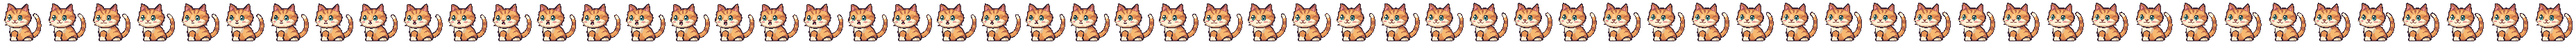
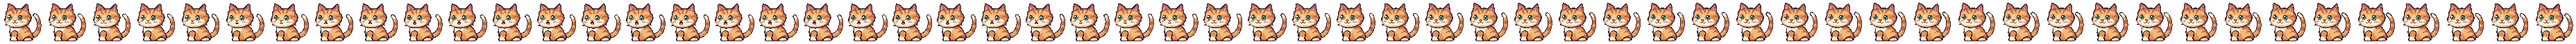
Animate affectionate and curious poses for the Calm tabby

diff --git a/client/calm-mode.jsx b/client/calm-mode.jsx
@@ -3,7 +3,7 @@ import {createPortal} from 'react-dom';
 import {catPerch,createCatSound,readCalmMode,saveCalmMode} from '/js/calm-cat.js';
 
 // Each strip is rendered at 24 frames per second on a 64px pixel grid.
-const framesByPose={idle:96,stretching:48,walk:72,laying:30,sleeping1:96,waking:42,meow:58};
+const framesByPose={idle:144,stretching:48,walk:72,laying:36,sleeping1:144,waking:48,meow:58,nuzzle:72,grooming:96,curious:60};
 const routine=[['idle',8000],['stretching',2000],['walk',3000],['idle',8000],['laying',1250],['sleeping1',16000],['waking',1750]];
 function Paw(){return <svg viewBox="0 0 24 24" aria-hidden="true"><ellipse cx="5" cy="9" rx="2" ry="2.8" transform="rotate(-25 5 9)"/><ellipse cx="10" cy="5.5" rx="2" ry="2.8"/><ellipse cx="16" cy="6" rx="2" ry="2.8" transform="rotate(15 16 6)"/><ellipse cx="20" cy="11" rx="1.8" ry="2.5" transform="rotate(30 20 11)"/><path d="M6.5 17c0-2 3-5.5 5.5-5.5s5.5 3.5 5.5 5.5c0 3-3 2-5.5 2s-5.5 1-5.5-2Z"/></svg>;}
 function Speaker({on}){return <svg viewBox="0 0 24 24" aria-hidden="true"><path d="M11 4 6 8H3v8h3l5 4Z"/>{on?<path d="M15 8a6 6 0 0 1 0 8m3-11a10 10 0 0 1 0 14"/>:<path d="m16 9 5 6m0-6-5 6"/>}</svg>;}

diff --git a/scripts/art/render-calm-cat.py b/scripts/art/render-calm-cat.py
@@ -27,7 +27,8 @@ PALETTE = {
     "pink": "eb9292", "ear": "aa545d", "eye": "26343d", "iris": "66b9af",
     "irisshade": "3a827d", "glint": "f5fff0",
 }
-CLIPS = {"idle": 96, "stretching": 48, "walk": 72, "laying": 30, "sleeping1": 96, "waking": 42, "meow": 58}
+CLIPS = {"idle": 144, "stretching": 48, "walk": 72, "laying": 36, "sleeping1": 144,
+         "waking": 48, "meow": 58, "nuzzle": 72, "grooming": 96, "curious": 60}
 
 
 def color(hex_code):
@@ -179,10 +180,18 @@ def draw_tabby(rig):
     oval('Tongue', 'pink', 21.5, 34.7, 1.65, .95, mouth)
     shape('Far whiskers', 'creamshade', 'M10 31 L5 30 L5 31 L10 32 Z', head)
     shape('Near whiskers', 'creamshade', 'M33 32 L40 31 L40 32 L34 33 Z', head)
+    wash_paw = rig.pivot('Washing forepaw', 20, 54)
+    shape('Washing paw outline', 'ink', 'M17 44 Q20 42 23 45 L24 51 Q25 57 21 59 L17 59 Q14 56 15 51 L15 47 Q15 45 17 44 Z', wash_paw)
+    shape('Washing paw fur', 'orange', 'M18 45 Q20 44 22 46 L23 51 L22 56 L17 56 L16 51 L16 47 Z', wash_paw)
+    shape('Washing paw sock', 'cream', 'M16 52 L23 52 L23 56 Q22 58 20 58 L17 58 Q15 57 16 52 Z', wash_paw)
     dreams = rig.pivot('Sleep marks', 48, 28)
     shape('Small Z', 'creamshade', 'M43 30 L47 30 L47 31 L44.5 33 L47 33 L47 34 L43 34 L43 33 L45.5 31 L43 31 Z', dreams)
     shape('Large Z', 'cream', 'M49 22 L54 22 L54 23 L51 26 L54 26 L54 27 L49 27 L49 26 L52 23 L49 23 Z', dreams)
-    return body, head, feet, eyes, eyelids, smile, mouth, tail, dreams
+    # The face is drawn in layers. Move the same ear vertices in every layer
+    # so the inner ear and outline remain registered during a small twitch.
+    ears = [(obj, [vertex.co.copy() for vertex in obj.data.vertices])
+            for obj in head.children if obj.type == 'MESH']
+    return body, head, feet, eyes, eyelids, smile, mouth, tail, dreams, ears, wash_paw
 
 
 def ease(t):
@@ -215,31 +224,51 @@ def stroke(start, end, center, width):
 
 
 def pose_tabby(rig, model, clip, frame):
-    body, head, feet, eyes, eyelids, smile, mouth, tail, dreams = model
-    progress = frame / CLIPS[clip]
+    body, head, feet, eyes, eyelids, smile, mouth, tail, dreams, ears, wash_paw = model
+    progress = frame / (CLIPS[clip] if clip in ('idle', 'sleeping1') else CLIPS[clip]-1)
     phase = progress * math.tau
     breath = math.sin(phase)
     rest = {'laying': ease(progress), 'sleeping1': 1, 'waking': 1-ease(progress*1.55)}.get(clip, 0)
     stretch = math.sin(math.pi*progress)**2 if clip in ('stretching', 'waking') else 0
     stride = math.sin(math.pi*progress)**2 if clip == 'walk' else 0
     gait = math.sin(phase*3)
-    place(body, x=2.3*rest, sx=1+.18*rest+.13*stride, sy=1-.48*rest-.16*stretch-.16*stride+.026*breath)
-    place(head, x=-1.2*rest-3*stretch-2*stride, y=20*rest+11*stretch+6*stride+.55*breath, sx=1+.06*rest,
-          sy=1-.17*rest-.04*stretch, tilt=.03*breath+.095*rest-.08*stretch)
+    envelope = math.sin(math.pi*progress)**2
+    affection = envelope if clip == 'nuzzle' else 0
+    wash = envelope if clip == 'grooming' else 0
+    curiosity = envelope if clip == 'curious' else 0
+    place(body, x=2.3*rest, sx=1+.18*rest+.13*stride, sy=1-.48*rest-.16*stretch-.16*stride+.018*breath)
+    place(head, x=-1.2*rest-3*stretch-2*stride-2*affection, y=20*rest+11*stretch+6*stride+.4*breath+2*wash,
+          sx=1+.06*rest, sy=1-.17*rest-.04*stretch,
+          tilt=.025*breath+.095*rest-.08*stretch-.12*affection+.14*curiosity-.07*wash*math.sin(phase*3))
     for index, paw in enumerate(feet):
         step = gait*(-1 if index else 1)*stride
-        place(paw, x=step*3-4*stretch-1.8*rest, y=-max(0,step)*2, sy=1-.60*rest-.24*stretch-.15*stride)
-    blink = max(0, 1-abs(progress-.56)/.055)**2 if clip == 'idle' else 0
-    closed = max(rest, blink)
-    for eye, eyelid in zip(eyes, eyelids):
-        place(eye, sy=1-.88*closed)
+        knead = max(0, math.sin(phase*3+index*math.pi))*affection
+        place(paw, x=step*3-4*stretch-1.8*rest+(2*wash if index else 0),
+              y=-max(0,step)*2-1.7*knead-(18*wash if index else 0),
+              sy=1-.60*rest-.24*stretch-.15*stride, tilt=-.12*wash if index else 0)
+        for feature in paw.children:
+            feature.hide_render = index == 1 and wash > .18
+    place(wash_paw, x=wash, y=-23*wash-1.2*wash*math.sin(phase*3), tilt=-.06*wash)
+    for feature in wash_paw.children:
+        feature.hide_render = wash <= .18
+    for index, (eye, eyelid) in enumerate(zip(eyes, eyelids)):
+        blink = ease(max(0, 1-abs(progress-(.56+.012*index))/.075)) if clip == 'idle' else 0
+        closed = max(rest, blink, min(1, affection*2.8), wash*.9)
+        place(eye, x=-.5*curiosity, sy=1-.88*closed)
         eyelid.hide_render = closed < .83
         for detail in eye.children:
             detail.hide_render = not eyelid.hide_render
+    twitch = .12*math.sin(phase*9)*math.exp(-((progress-.78)/.07)**2) if clip in ('idle', 'curious') else 0
+    for obj, original in ears:
+        for vertex, co in zip(obj.data.vertices, original):
+            x, y = co.x+23, 30-co.y
+            weight = ease((18-y)/11) if x < 22 else 0
+            vertex.co = co+Vector((twitch*weight*(18-y), twitch*weight*(x-15), 0))
     place(dreams, y=-.75*breath)
     for mark in dreams.children:
         mark.hide_render = clip != 'sleeping1'
     meow = math.sin(math.pi*min(1, progress*1.9))**1.5 if clip == 'meow' else 0
+    meow = max(meow, max(0, math.sin(phase*3))*.52*wash)
     smile.hide_render = meow > .24
     mouth.hide_render = meow <= .24
     for feature in mouth.children:
